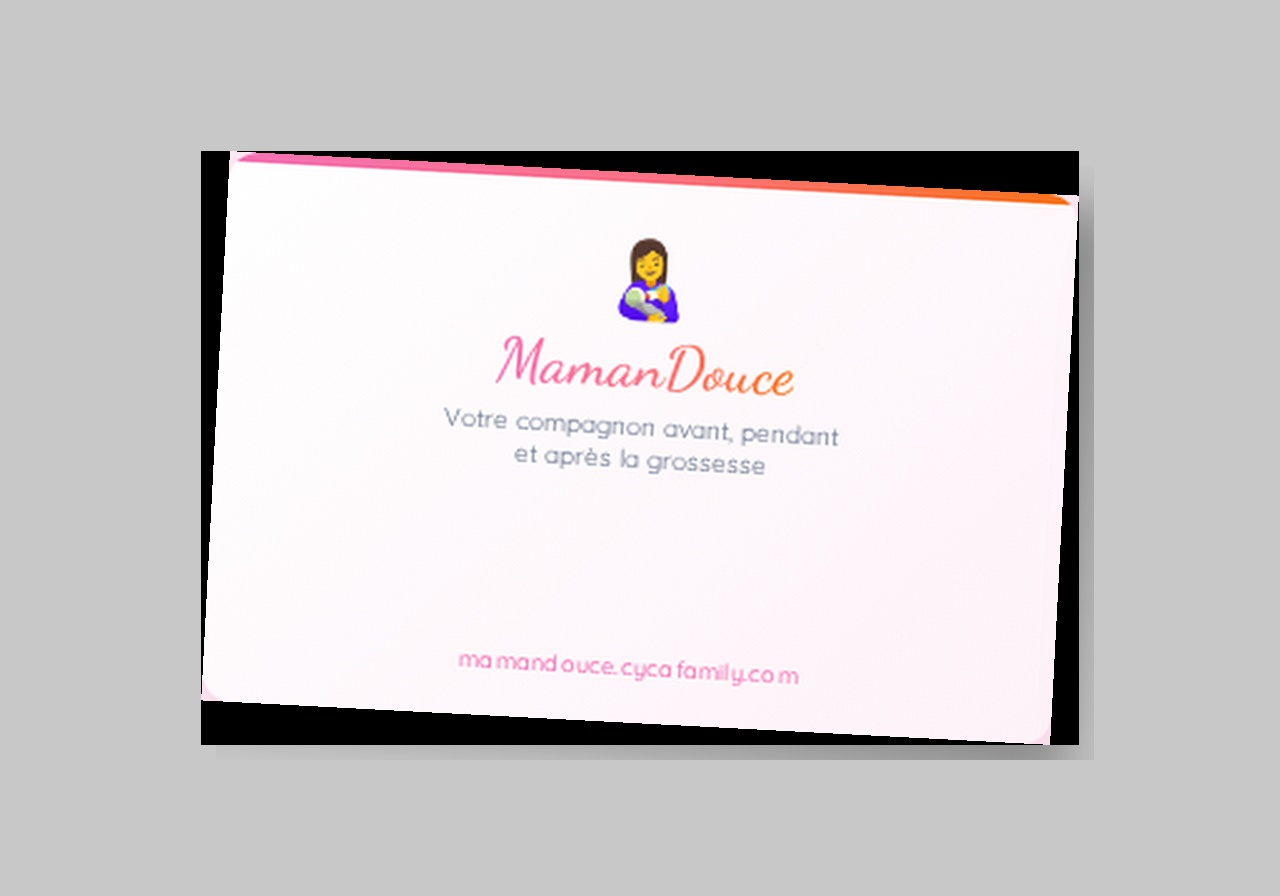
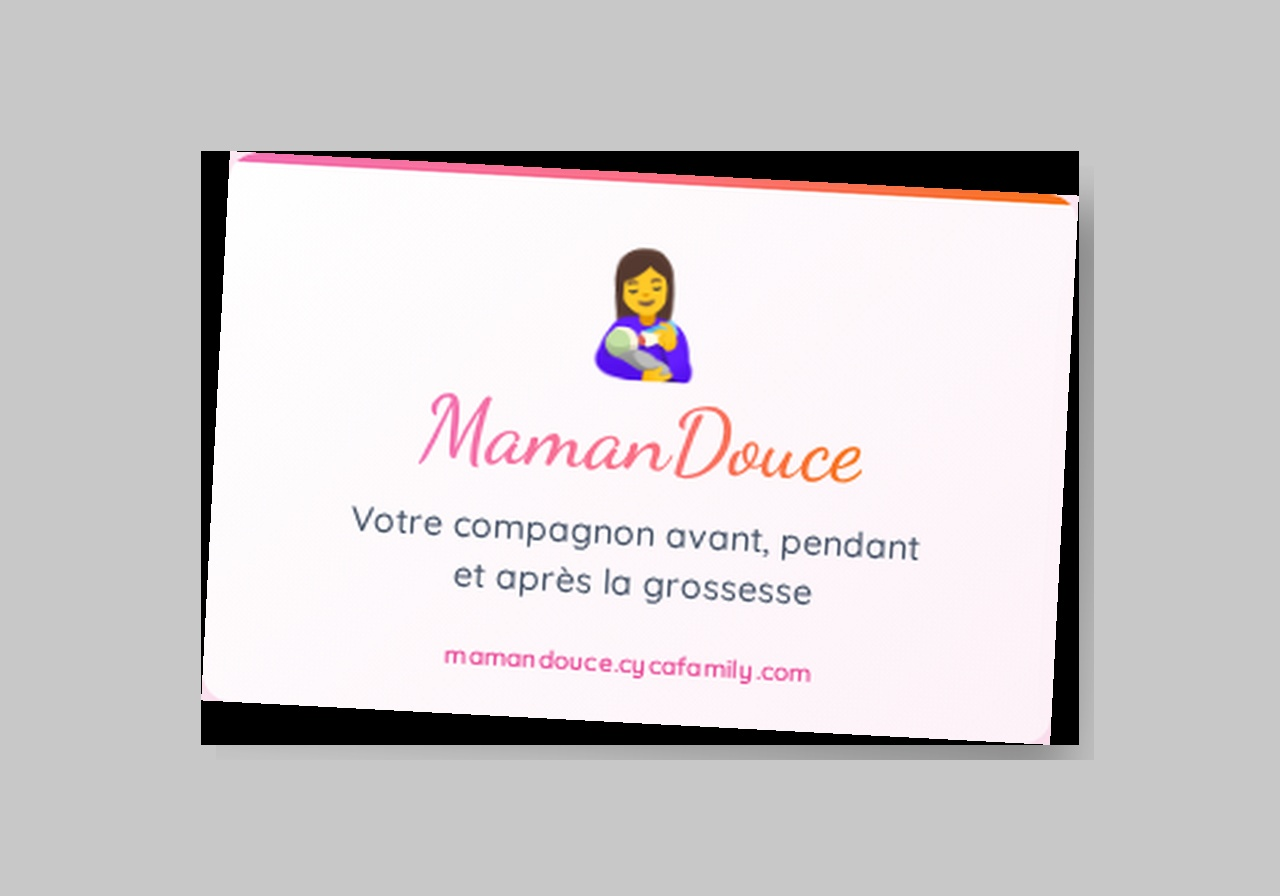
auto-commit for cb29621d-b052-4182-810e-7e940a34db55

Changed region(s): [[0.3125, 0.25, 0.6875, 0.5625], [0.2812, 0.5625, 0.7188, 0.6875], [0.3438, 0.7188, 0.625, 0.7812]]

diff --git a/frontend/src/pages/CarteVisitePage.js b/frontend/src/pages/CarteVisitePage.js
@@ -147,43 +147,68 @@ export default function CarteVisitePage() {
                 style={{ background: 'linear-gradient(90deg, #f472b6, #fb7185, #f97316)' }}
               />
               
-              {/* Contenu principal - Logo et slogan */}
-              <div className="flex flex-col items-center pt-2">
-                <div className="text-3xl mb-0.5">👩🍼</div>
-                <div 
-                  className="text-2xl font-semibold"
-                  style={{ 
-                    fontFamily: "'Dancing Script', cursive",
-                    background: 'linear-gradient(90deg, #f472b6, #fb7185, #f97316)',
-                    WebkitBackgroundClip: 'text',
-                    WebkitTextFillColor: 'transparent'
-                  }}
-                >
-                  MamanDouce
-                </div>
-                <div className="text-slate-500 text-[10px] mt-0.5 text-center leading-tight">
-                  Votre compagnon avant, pendant<br/>et après la grossesse
-                </div>
-              </div>
-              
-              {/* QR Code - positionné en bas à gauche pour plus d'espace */}
-              {showQRCode && (
-                <div className="flex items-center gap-4 mt-2">
-                  <div 
-                    className="w-14 h-14 border-2 border-dashed border-pink-400 rounded-lg flex items-center justify-center text-pink-400 text-[9px] font-semibold"
-                  >
-                    QR<br/>CODE
+              {showQRCode ? (
+                <>
+                  {/* Version AVEC QR Code */}
+                  <div className="flex flex-col items-center pt-2">
+                    <div className="text-3xl mb-0.5">👩🍼</div>
+                    <div 
+                      className="text-2xl font-semibold"
+                      style={{ 
+                        fontFamily: "'Dancing Script', cursive",
+                        background: 'linear-gradient(90deg, #f472b6, #fb7185, #f97316)',
+                        WebkitBackgroundClip: 'text',
+                        WebkitTextFillColor: 'transparent'
+                      }}
+                    >
+                      MamanDouce
+                    </div>
+                    <div className="text-slate-500 text-[10px] mt-0.5 text-center leading-tight">
+                      Votre compagnon avant, pendant<br/>et après la grossesse
+                    </div>
                   </div>
-                  <div className="text-[9px] text-slate-500 leading-snug text-left">
-                    Scannez pour<br/>télécharger l'app
+                  
+                  <div className="flex items-center gap-4 mt-2">
+                    <div 
+                      className="w-14 h-14 border-2 border-dashed border-pink-400 rounded-lg flex items-center justify-center text-pink-400 text-[9px] font-semibold"
+                    >
+                      QR<br/>CODE
+                    </div>
+                    <div className="text-[9px] text-slate-500 leading-snug text-left">
+                      Scannez pour<br/>télécharger l'app
+                    </div>
                   </div>
-                </div>
+                  
+                  <div className="text-[9px] text-pink-400 font-medium tracking-wide mt-1">
+                    mamandouce.cycafamily.com
+                  </div>
+                </>
+              ) : (
+                <>
+                  {/* Version SANS QR Code - Plus percutante et centrée */}
+                  <div className="flex-1 flex flex-col items-center justify-center">
+                    <div className="text-5xl mb-2">👩🍼</div>
+                    <div 
+                      className="text-4xl font-semibold mb-2"
+                      style={{ 
+                        fontFamily: "'Dancing Script', cursive",
+                        background: 'linear-gradient(90deg, #f472b6, #fb7185, #f97316)',
+                        WebkitBackgroundClip: 'text',
+                        WebkitTextFillColor: 'transparent'
+                      }}
+                    >
+                      MamanDouce
+                    </div>
+                    <div className="text-slate-600 text-sm text-center leading-snug font-medium">
+                      Votre compagnon avant, pendant<br/>et après la grossesse
+                    </div>
+                  </div>
+                  
+                  <div className="text-[10px] text-pink-500 font-semibold tracking-wide">
+                    mamandouce.cycafamily.com
+                  </div>
+                </>
               )}
-              
-              {/* URL en bas */}
-              <div className="text-[9px] text-pink-400 font-medium tracking-wide mt-1">
-                mamandouce.cycafamily.com
-              </div>
             </div>
           </div>
         </div>
